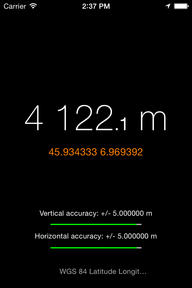
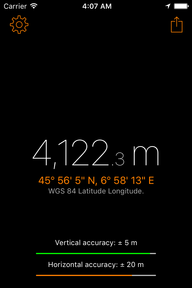
updated README

diff --git a/README.md b/README.md
@@ -5,13 +5,19 @@ Altimeter
 iPhone altimeter designed for the outdoors.
 
 ![Screenshot](https://github.com/glegrain/Altimeter/raw/master/img/screenshot.png)
+![Settings screenshot](https://github.com/glegrain/Altimeter/raw/master/img/settings.png)
+![Today Extension screenshot](https://github.com/glegrain/Altimeter/raw/master/img/today.png)
 
 
 #Features
  - Altimeter with GPS measurement using Core Location
  - Today/Notification Center Extension for quick access without launching the app
- - Works in 'Airplaine Mode'
+ - Works in 'Airplane Mode'
  - Change unit of measurement from meters to feet with a single tap
+ - Export current location to Messages and other apps in plain text
+ - No Ads
+ - High contrast UI to stay legible even in the brightest situations
+
 
 
 #How to build
